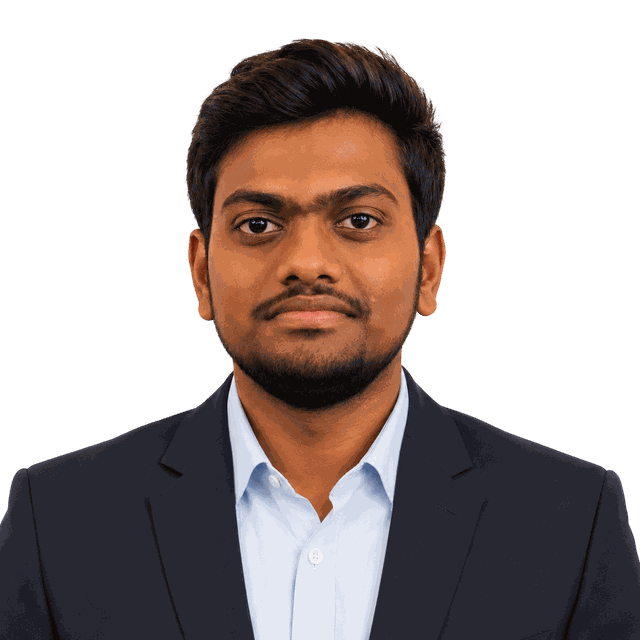
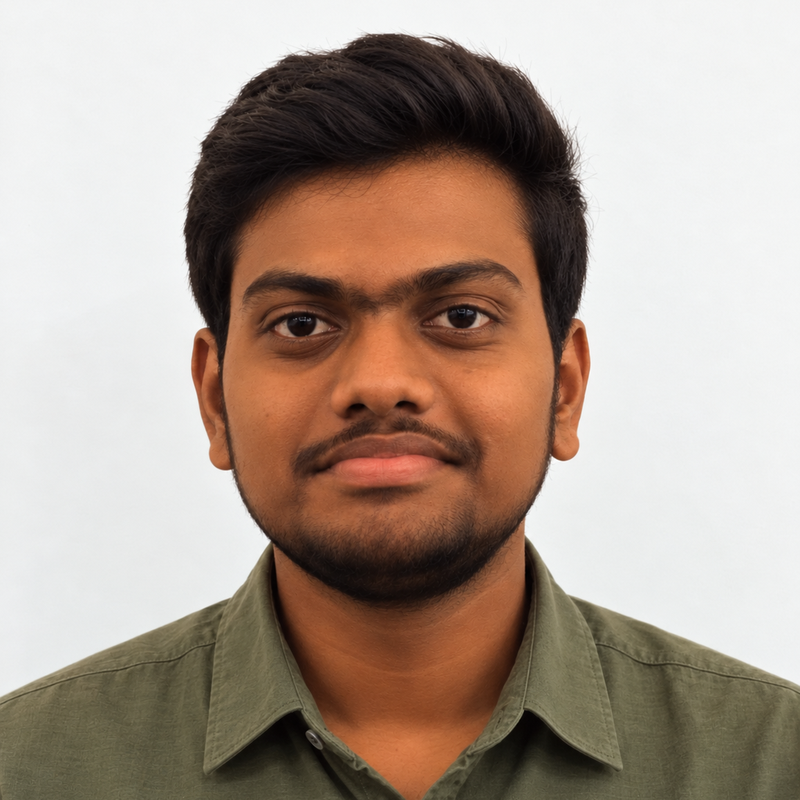
Use passport photo as profile picture

diff --git a/assets/css/style.css b/assets/css/style.css
@@ -248,21 +248,21 @@ svg.filled { fill: currentColor; stroke: none; }
 .hero-portrait { position: relative; }
 .hero-portrait picture { display: block; }
 
-/* Cut-out portrait floats directly on the page — no frame, no background. */
+/* Photo portrait in a rounded frame. */
 .portrait {
   display: block;
   position: relative;
   width: 300px;
   height: auto;
-  /* drop-shadow follows the silhouette's alpha, unlike box-shadow. */
-  filter: drop-shadow(0 18px 28px rgba(23, 22, 20, .22));
+  border-radius: 28px;
+  box-shadow: 0 18px 40px rgba(23, 22, 20, .22);
 }
-:root[data-theme="dark"] .portrait { filter: drop-shadow(0 18px 30px rgba(0, 0, 0, .6)); }
+:root[data-theme="dark"] .portrait { box-shadow: 0 18px 40px rgba(0, 0, 0, .6); }
 @media (prefers-color-scheme: dark) {
-  :root:not([data-theme="light"]) .portrait { filter: drop-shadow(0 18px 30px rgba(0, 0, 0, .6)); }
+  :root:not([data-theme="light"]) .portrait { box-shadow: 0 18px 40px rgba(0, 0, 0, .6); }
 }
 
-/* Soft accent disc grounds the figure so it doesn't look like it's floating in space. */
+/* Soft accent glow behind the photo. */
 .hero-portrait::before {
   content: '';
   position: absolute;

diff --git a/index.html b/index.html
@@ -133,7 +133,7 @@
          <source srcset="assets/img/portrait.webp" type="image/webp">
          <img class="portrait" src="assets/img/portrait.png"
               alt="Portrait of Kesav Patneedi"
-              width="640" height="640" fetchpriority="high">
+              width="800" height="800" fetchpriority="high">
        </picture>
      </div>
     </div>
